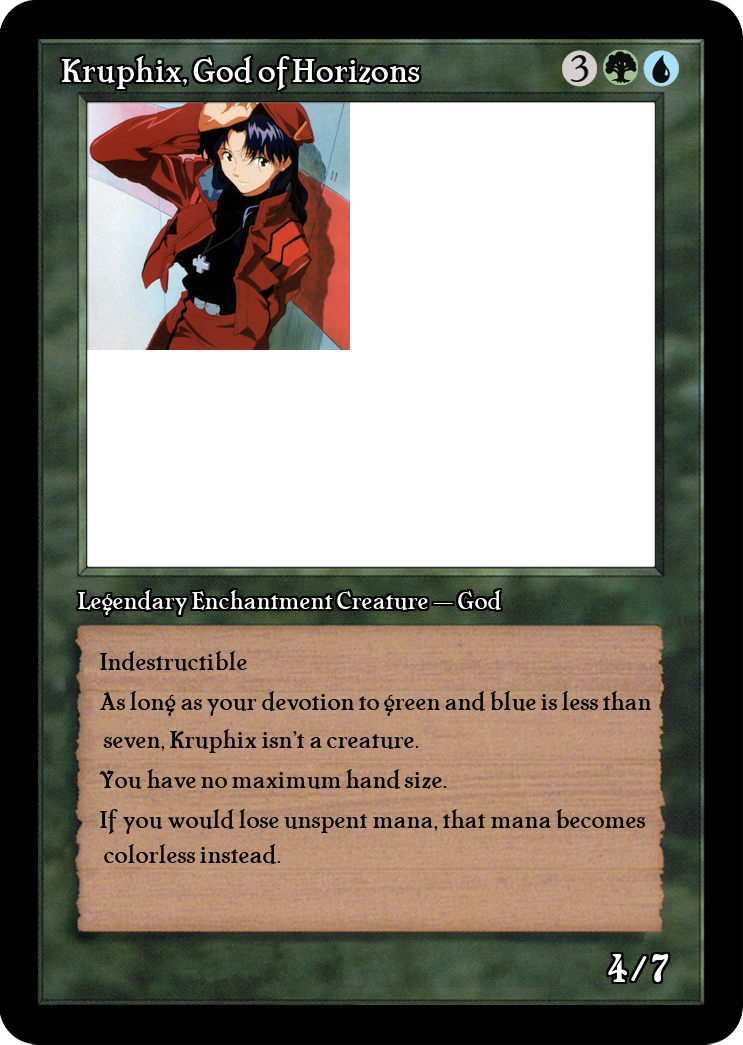
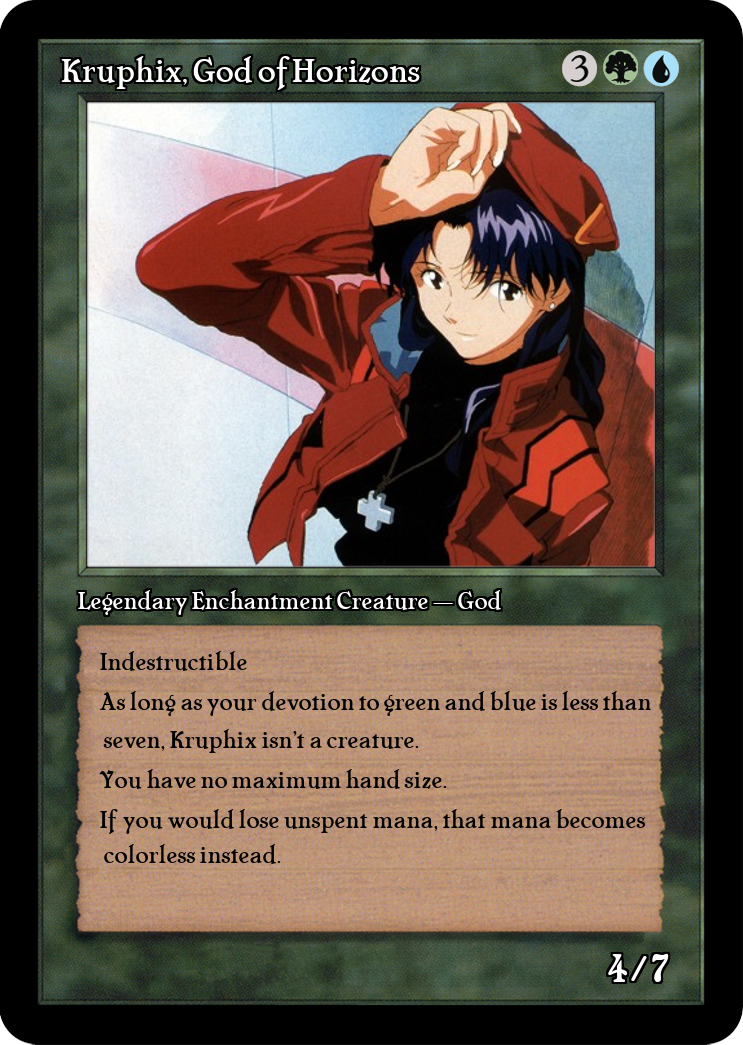
image placement behind

diff --git a/script.py b/script.py
@@ -112,7 +112,7 @@ def create_card(card):
     # Load and resize the art image
     art_image = Image.open("assets/art/art.jpg")  # Replace with your art path
     art_box_position = (50, 50)  # The position where the art box starts on the template
-    art_box_size = (300, 300)  # The size of the art box on the template
+    art_box_size = (646, 646)  # The size of the art box on the template
 
     # Ensure the art image has an alpha channel and resize/crop if necessary
     art_image = ImageOps.contain(art_image, art_box_size)
@@ -120,7 +120,7 @@ def create_card(card):
         art_image = art_image.convert('RGBA')
 
     # Paste the art onto the background image at the specified position
-    template.paste(art_image, art_box_position, art_image)
+    template.paste(art_image, art_box_position, art_image.split()[3])
 
     # Now paste the template on top of the background (this will show the art through the transparent area)
     template.paste(template_with_transparency, (0, 0), template_with_transparency)
